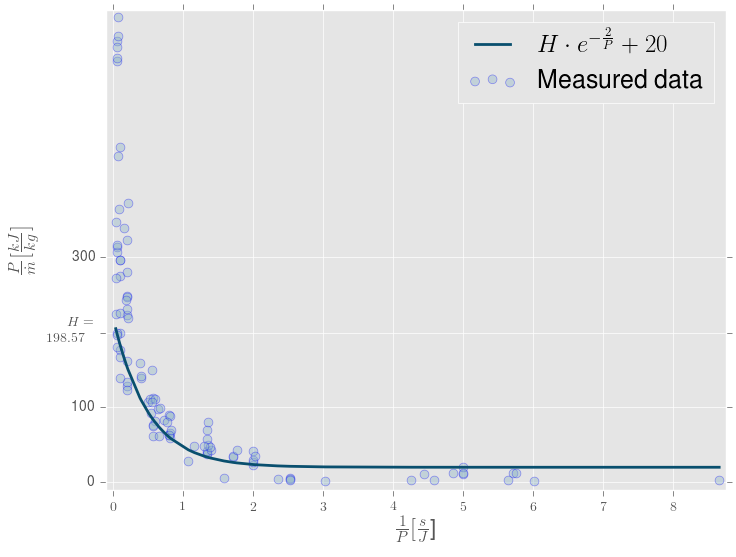
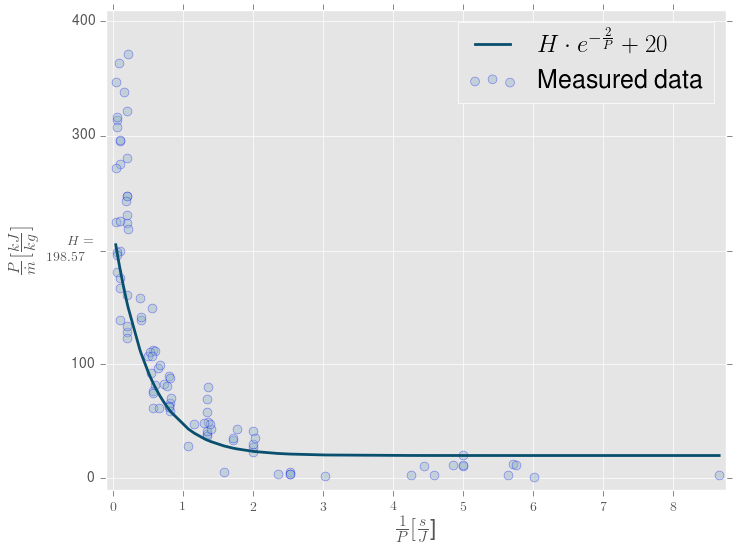
Made the graph easier to read

diff --git a/nitrogenlab.py b/nitrogenlab.py
@@ -92,13 +92,15 @@ popt, pcov = curve_fit(func, xdata, ydata)
 plt.scatter(error, enthalpy, c="#8eb5c6", edgecolors='b', label="Measured data", alpha=0.4, s=40)
 plt.plot(xdata, func(xdata, *popt), c="#094f6e", linewidth=2, label=r"$H \cdot e^{-\frac{2}{P}} + 20$")
 
-plt.yticks([0, 100, H, 300], [0, 100, r"$H =\\ {}$".format(H), 300])
+plt.yticks([0, 100, H, 300, 400], [0, 100, r"$H =\\ {}$".format(H), 300, 400])
 
 plt.xlabel(r"$\frac{1}{P} [\frac{s}{J}$]", fontsize=16)
 plt.ylabel(r"$\frac{P}{\dot{m}} [\frac{kJ}{kg}]$", fontsize=16)
 
 plt.xlim(-0.1, xdata[-1] + .1)
-plt.ylim(-10, max(enthalpy) + 10)
+# plt.ylim(-10, max(enthalpy) + 10)
+# Ignore values over 410 kJ/kg since they are most likely outliers
+plt.ylim(-10, 410)
 plt.legend(loc=1, prop={"size": 18})
 
 # Save the plot
